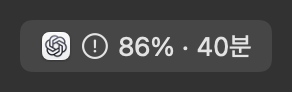
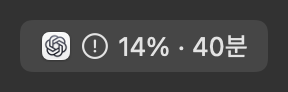
Show what's left in the menu bar, not what's used
The menu bar is a glance, and the question a glance answers is "how much do I
have left". It now shows 100 − used. The panel keeps the vendors' direction
(used) so it still lines up with their own screens.

Which limit gets picked is unchanged — still the one used the most — and so are
the warning thresholds. The remaining figure is subtracted from the panel's
rounded number rather than rounded on its own, so the two always add up to 100:
33.5% used would otherwise read 34% in the panel and 67% in the menu bar.

Screenshots regenerated with --snapshot, and the design note in both READMEs
updated to match.

diff --git a/Tests/UsageCoreTests/UsageCoreTests.swift b/Tests/UsageCoreTests/UsageCoreTests.swift
@@ -341,14 +341,23 @@ final class DisplayTests: LocalizedTestCase {
         XCTAssertEqual(menuBarText(for: [unknown]), "—")
     }
 
-    func testMenuBarShowsUsedNotRemaining() {
+    func testMenuBarShowsRemainingNotUsed() {
         let now = date(2026, 9, 16, 17, 0)
         let u = ProviderUsage(
             provider: .claude,
             windows: [UsageWindow(kind: .session(hours: 5), usedPercent: 11,
                                   resetsAt: now.addingTimeInterval(3 * 3600 + 600))],
             updatedAt: now)
-        XCTAssertEqual(menuBarText(for: [u], now: now), "11% · 3시간")
+        XCTAssertEqual(menuBarText(for: [u], now: now), "89% · 3시간")
+    }
+
+    /// 패널의 사용 비율과 합이 100이어야 한다. 33.5를 따로 반올림하면 34 + 67 = 101이 된다.
+    func testRemainingAddsUpWithPanel() {
+        let u = ProviderUsage(
+            provider: .claude,
+            windows: [UsageWindow(kind: .session(hours: 5), usedPercent: 33.5, resetsAt: nil)],
+            updatedAt: Date())
+        XCTAssertEqual(menuBarText(for: [u]), "66%")
     }
 
     func testAllUnavailableGivesDash() {
@@ -926,18 +935,18 @@ final class MenuBarStyleTests: LocalizedTestCase {
             usage(.gemini, session: 0, weekly: 0),
         ])
         XCTAssertEqual(entries.map(\.provider), [.claude, .codex, .gemini])
-        XCTAssertEqual(entries.map(\.text), ["23%", "2%", "0%"])
+        XCTAssertEqual(entries.map(\.text), ["77%", "98%", "100%"])
     }
 
     /// 제공자 안에서도 세션을 우선한다. 전체 규칙과 어긋나면 숫자가 서로 안 맞아 보인다.
     func testAllModePrefersSessionWithinProvider() {
         let entries = menuBarEntries(for: [usage(.codex, session: 2, weekly: 45)])
-        XCTAssertEqual(entries.first?.text, "2%", "주간 45% 가 아니라 세션 2% 여야 한다")
+        XCTAssertEqual(entries.first?.text, "98%", "주간 45% 가 아니라 세션 2% 여야 한다")
     }
 
     /// 세션 창이 없는 제공자는 가진 것 중 최대를 쓴다.
     func testAllModeFallsBackWhenNoSession() {
-        XCTAssertEqual(menuBarEntries(for: [usage(.gemini, session: nil, weekly: 30)]).first?.text, "30%")
+        XCTAssertEqual(menuBarEntries(for: [usage(.gemini, session: nil, weekly: 30)]).first?.text, "70%")
     }
 
     /// 수치가 없는 제공자는 아예 빠진다. "—" 같은 자리만 차지하는 항목을 만들지 않는다.

diff --git a/Sources/UsageCore/Usage.swift b/Sources/UsageCore/Usage.swift
@@ -137,13 +137,18 @@ public func mostUrgent(among usages: [ProviderUsage]) -> (ProviderUsage, UsageWi
     return pool.max { ($0.1.usedPercent ?? 0) < ($1.1.usedPercent ?? 0) }
 }
 
+/// 메뉴바에 올릴 남은 비율. 패널은 사용한 비율을 보여주므로, 반올림한 사용량에서 빼야
+/// 두 숫자의 합이 정확히 100이 된다 (33.5% 사용 → 패널 34%, 메뉴바 66%).
+func remainingText(_ used: Double) -> String { "\(100 - Int(used.rounded()))%" }
+
 /// 메뉴바 한 줄에 들어갈 텍스트. 아이콘은 호출하는 쪽이 붙인다.
+/// 고르는 기준은 여전히 "가장 많이 쓴 것"이고, 보여주는 숫자만 남은 비율이다.
 public func menuBarText(for usages: [ProviderUsage], now: Date = Date()) -> String {
     guard let (_, window) = mostUrgent(among: usages),
           let used = window.usedPercent else { return "—" }
-    let pct = Int(used.rounded())
-    if let t = window.timeToReset(now: now) { return "\(pct)% · \(t)" }
-    return "\(pct)%"
+    let pct = remainingText(used)
+    if let t = window.timeToReset(now: now) { return "\(pct) · \(t)" }
+    return pct
 }
 
 /// "14분 전에 업데이트됨" / "updated 14m ago"
@@ -190,7 +195,7 @@ public func menuBarEntries(for usages: [ProviderUsage]) -> [(provider: Provider,
             : sessions
         guard let window = pool.max(by: { ($0.usedPercent ?? 0) < ($1.usedPercent ?? 0) }),
               let used = window.usedPercent else { return nil }
-        return (usage.provider, "\(Int(used.rounded()))%")
+        return (usage.provider, remainingText(used))
     }
 }
 

diff --git a/README.ko.md b/README.ko.md
@@ -10,7 +10,7 @@
 ![Platform](https://img.shields.io/badge/platform-macOS%2014%2B-lightgrey)
 ![Swift](https://img.shields.io/badge/Swift-5.9-orange)
 ![Dependencies](https://img.shields.io/badge/의존성-없음-brightgreen)
-![Tests](https://img.shields.io/badge/테스트-91개-brightgreen)
+![Tests](https://img.shields.io/badge/테스트-92개-brightgreen)
 [![CI](https://github.com/dongha0312/TokenUsage/actions/workflows/ci.yml/badge.svg)](https://github.com/dongha0312/TokenUsage/actions/workflows/ci.yml)
 
 <picture>
@@ -22,8 +22,8 @@
 
 ---
 
-접힌 상태에서는 **5시간 한도** 중 가장 많이 쓴 것을 보여줍니다. 지금 당장 나를 막는 건
-그쪽이기 때문입니다.
+접힌 상태에서는 **5시간 한도** 중 가장 많이 쓴 것의 **남은 비율**을 보여줍니다. 지금 당장
+나를 막는 건 그쪽이기 때문입니다.
 
 <picture>
   <source media="(prefers-color-scheme: dark)" srcset="docs/menubar-urgent-ko-dark.png">
@@ -229,8 +229,10 @@ cat /tmp/tokenusage-debug.log
 만들면서 틀렸던 것과 그걸 어떻게 알았는지는 **[DEVLOG.md](DEVLOG.md)** 에 정리해뒀습니다.
 아래는 요약입니다.
 
-### 비율은 "남은 양"이 아니라 "사용한 양"
-세 벤더 모두 사용량 기준으로 보고합니다. 뒤집으면 벤더 화면과 대조할 때마다 헷갈립니다.
+### 패널은 "사용한 양", 메뉴바는 "남은 양"
+세 벤더 모두 사용량 기준으로 보고하므로 패널은 그 방향 그대로 둬서 벤더 화면과 바로 대조됩니다.
+메뉴바는 흘끗 보는 자리라 "얼마나 남았나"를 보여줍니다. 패널의 반올림한 숫자에서 빼므로 두 값의
+합은 항상 100입니다.
 
 ### 굳은 수치를 현재값인 양 보여주지 않는다
 모든 출처가 "어느 시점의 스냅샷"입니다. 그래서 리셋이 지난 창은 비우고, 제공자마다 언제
@@ -264,7 +266,7 @@ ClaudeReader 290줄 → 127줄, 테스트 22초 → 0.05초.
 ## 개발
 
 ```sh
-swift test                                  # 91개
+swift test                                  # 92개
 open Package.swift   # SwiftPM으로 Xcode에서 열기
 ```
 

diff --git a/README.md b/README.md
@@ -10,7 +10,7 @@
 ![Platform](https://img.shields.io/badge/platform-macOS%2014%2B-lightgrey)
 ![Swift](https://img.shields.io/badge/Swift-5.9-orange)
 ![Dependencies](https://img.shields.io/badge/dependencies-none-brightgreen)
-![Tests](https://img.shields.io/badge/tests-91-brightgreen)
+![Tests](https://img.shields.io/badge/tests-92-brightgreen)
 [![CI](https://github.com/dongha0312/TokenUsage/actions/workflows/ci.yml/badge.svg)](https://github.com/dongha0312/TokenUsage/actions/workflows/ci.yml)
 
 <picture>
@@ -22,8 +22,8 @@
 
 ---
 
-Collapsed, the menu bar shows the **5-hour limit** closest to running out — the one that can
-actually block you right now:
+Collapsed, the menu bar shows **how much is left** on the **5-hour limit** closest to running
+out — the one that can actually block you right now:
 
 <picture>
   <source media="(prefers-color-scheme: dark)" srcset="docs/menubar-urgent-en-dark.png">
@@ -232,10 +232,12 @@ plus a snippet of what rendered. Writes nothing when the variable is unset.
 
 ## Design notes
 
-### Percentages are "used", not "left"
+### The panel shows "used", the menu bar shows "left"
 
-All three vendors report how much you have *used*. Flipping it would make every comparison
-against the vendor's own screen confusing.
+All three vendors report how much you have *used*, so the panel keeps that direction and lines
+up with their own screens. The menu bar is a glance, and "how much do I have left" is the
+question a glance answers — so it shows `100 − used`, subtracting from the panel's rounded
+number so the two always add up to 100.
 
 ### It never shows a stale number as if it were current
 

diff --git a/CONTRIBUTING.md b/CONTRIBUTING.md
@@ -24,7 +24,7 @@ sample of the page text is enough for me to add it — see the issue template.
 ```sh
 git clone https://github.com/dongha0312/TokenUsage.git
 cd TokenUsage
-swift test          # 91 tests, no signing needed
+swift test          # 92 tests, no signing needed
 ./build.sh --install
 ```
 
